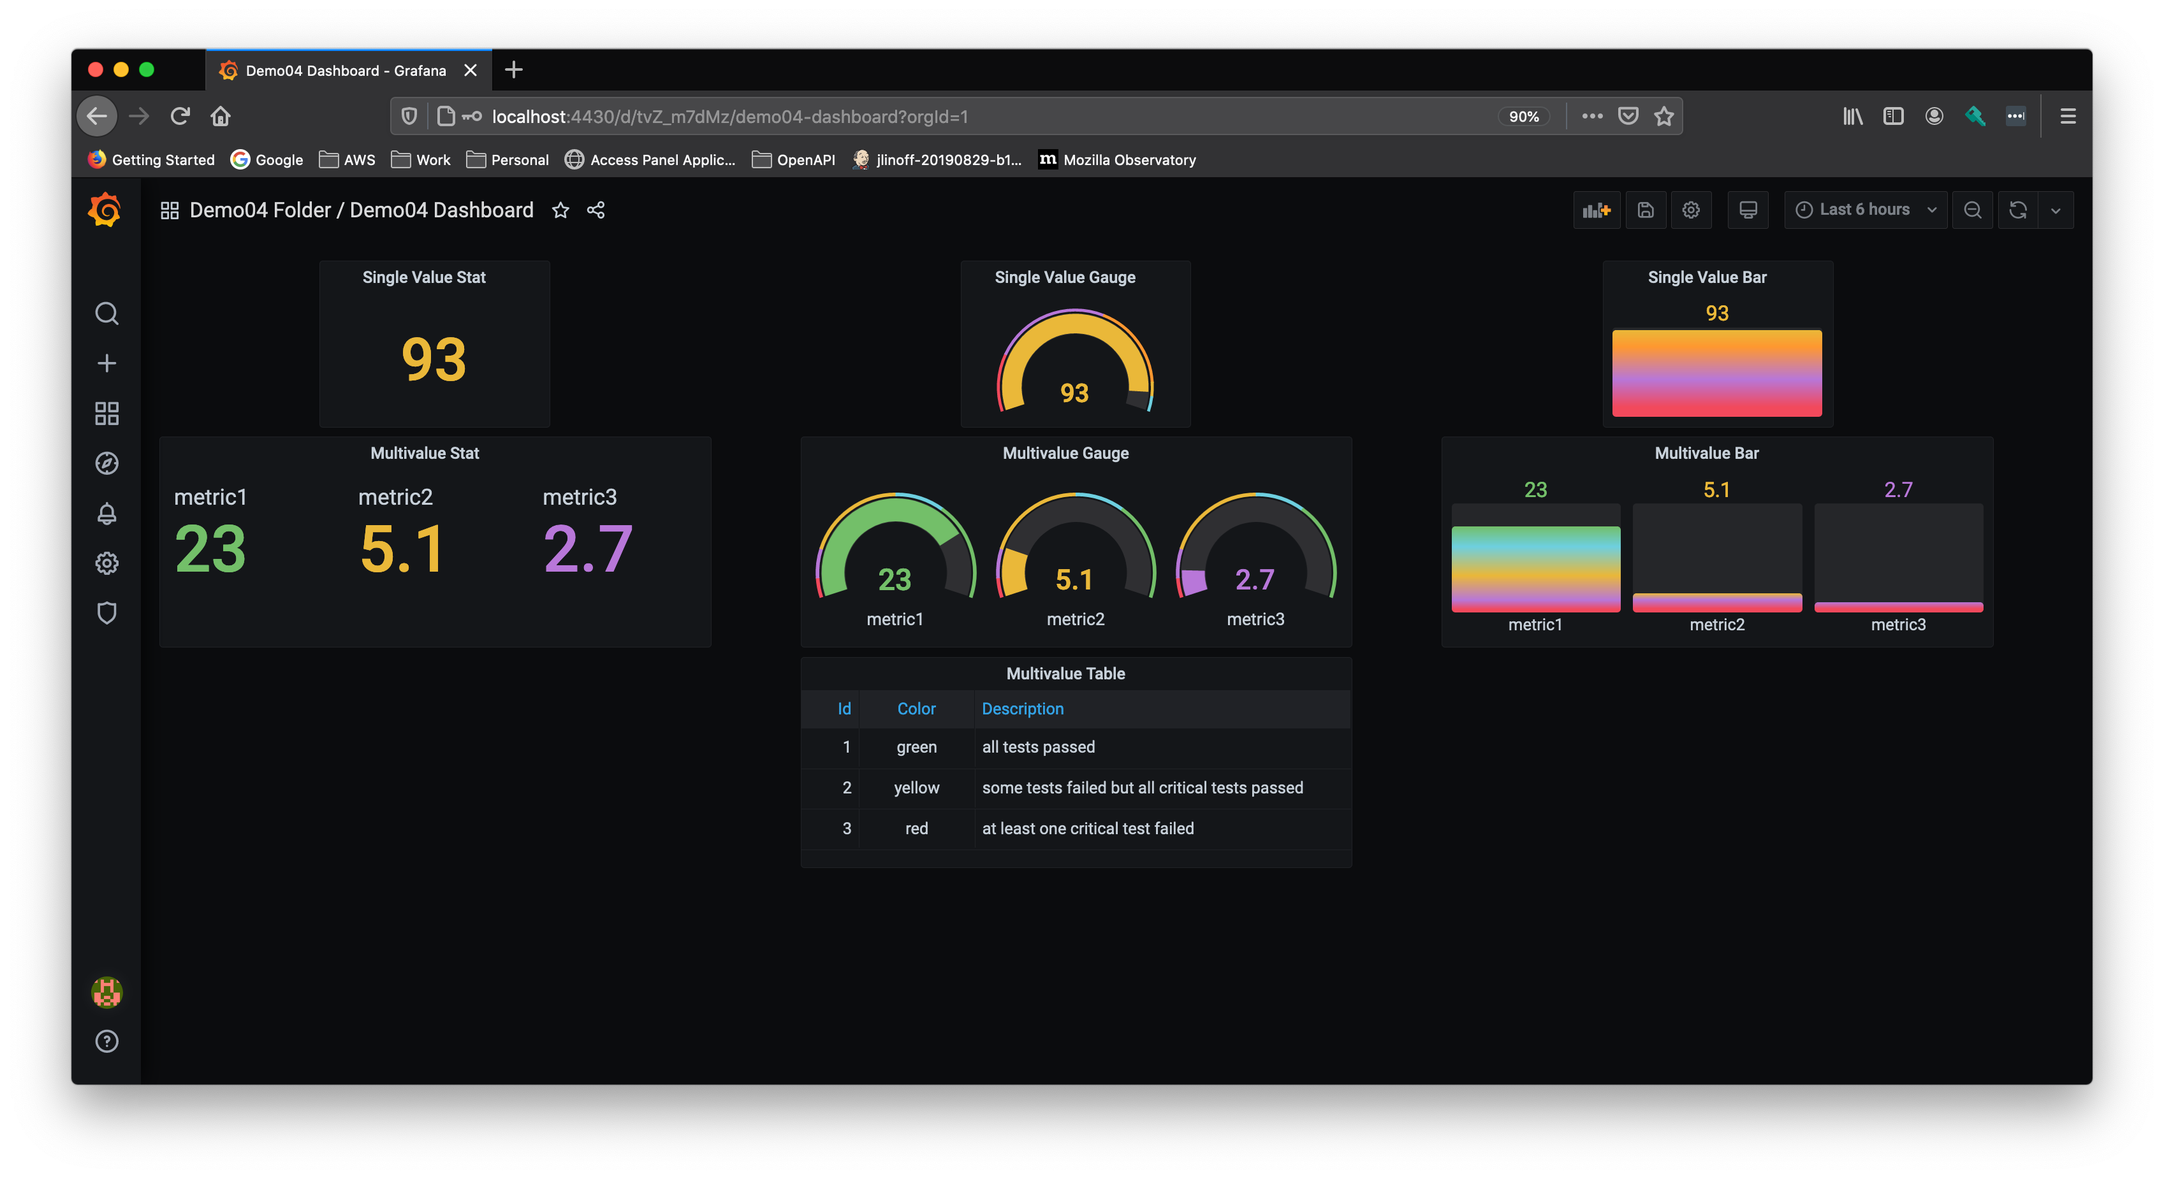
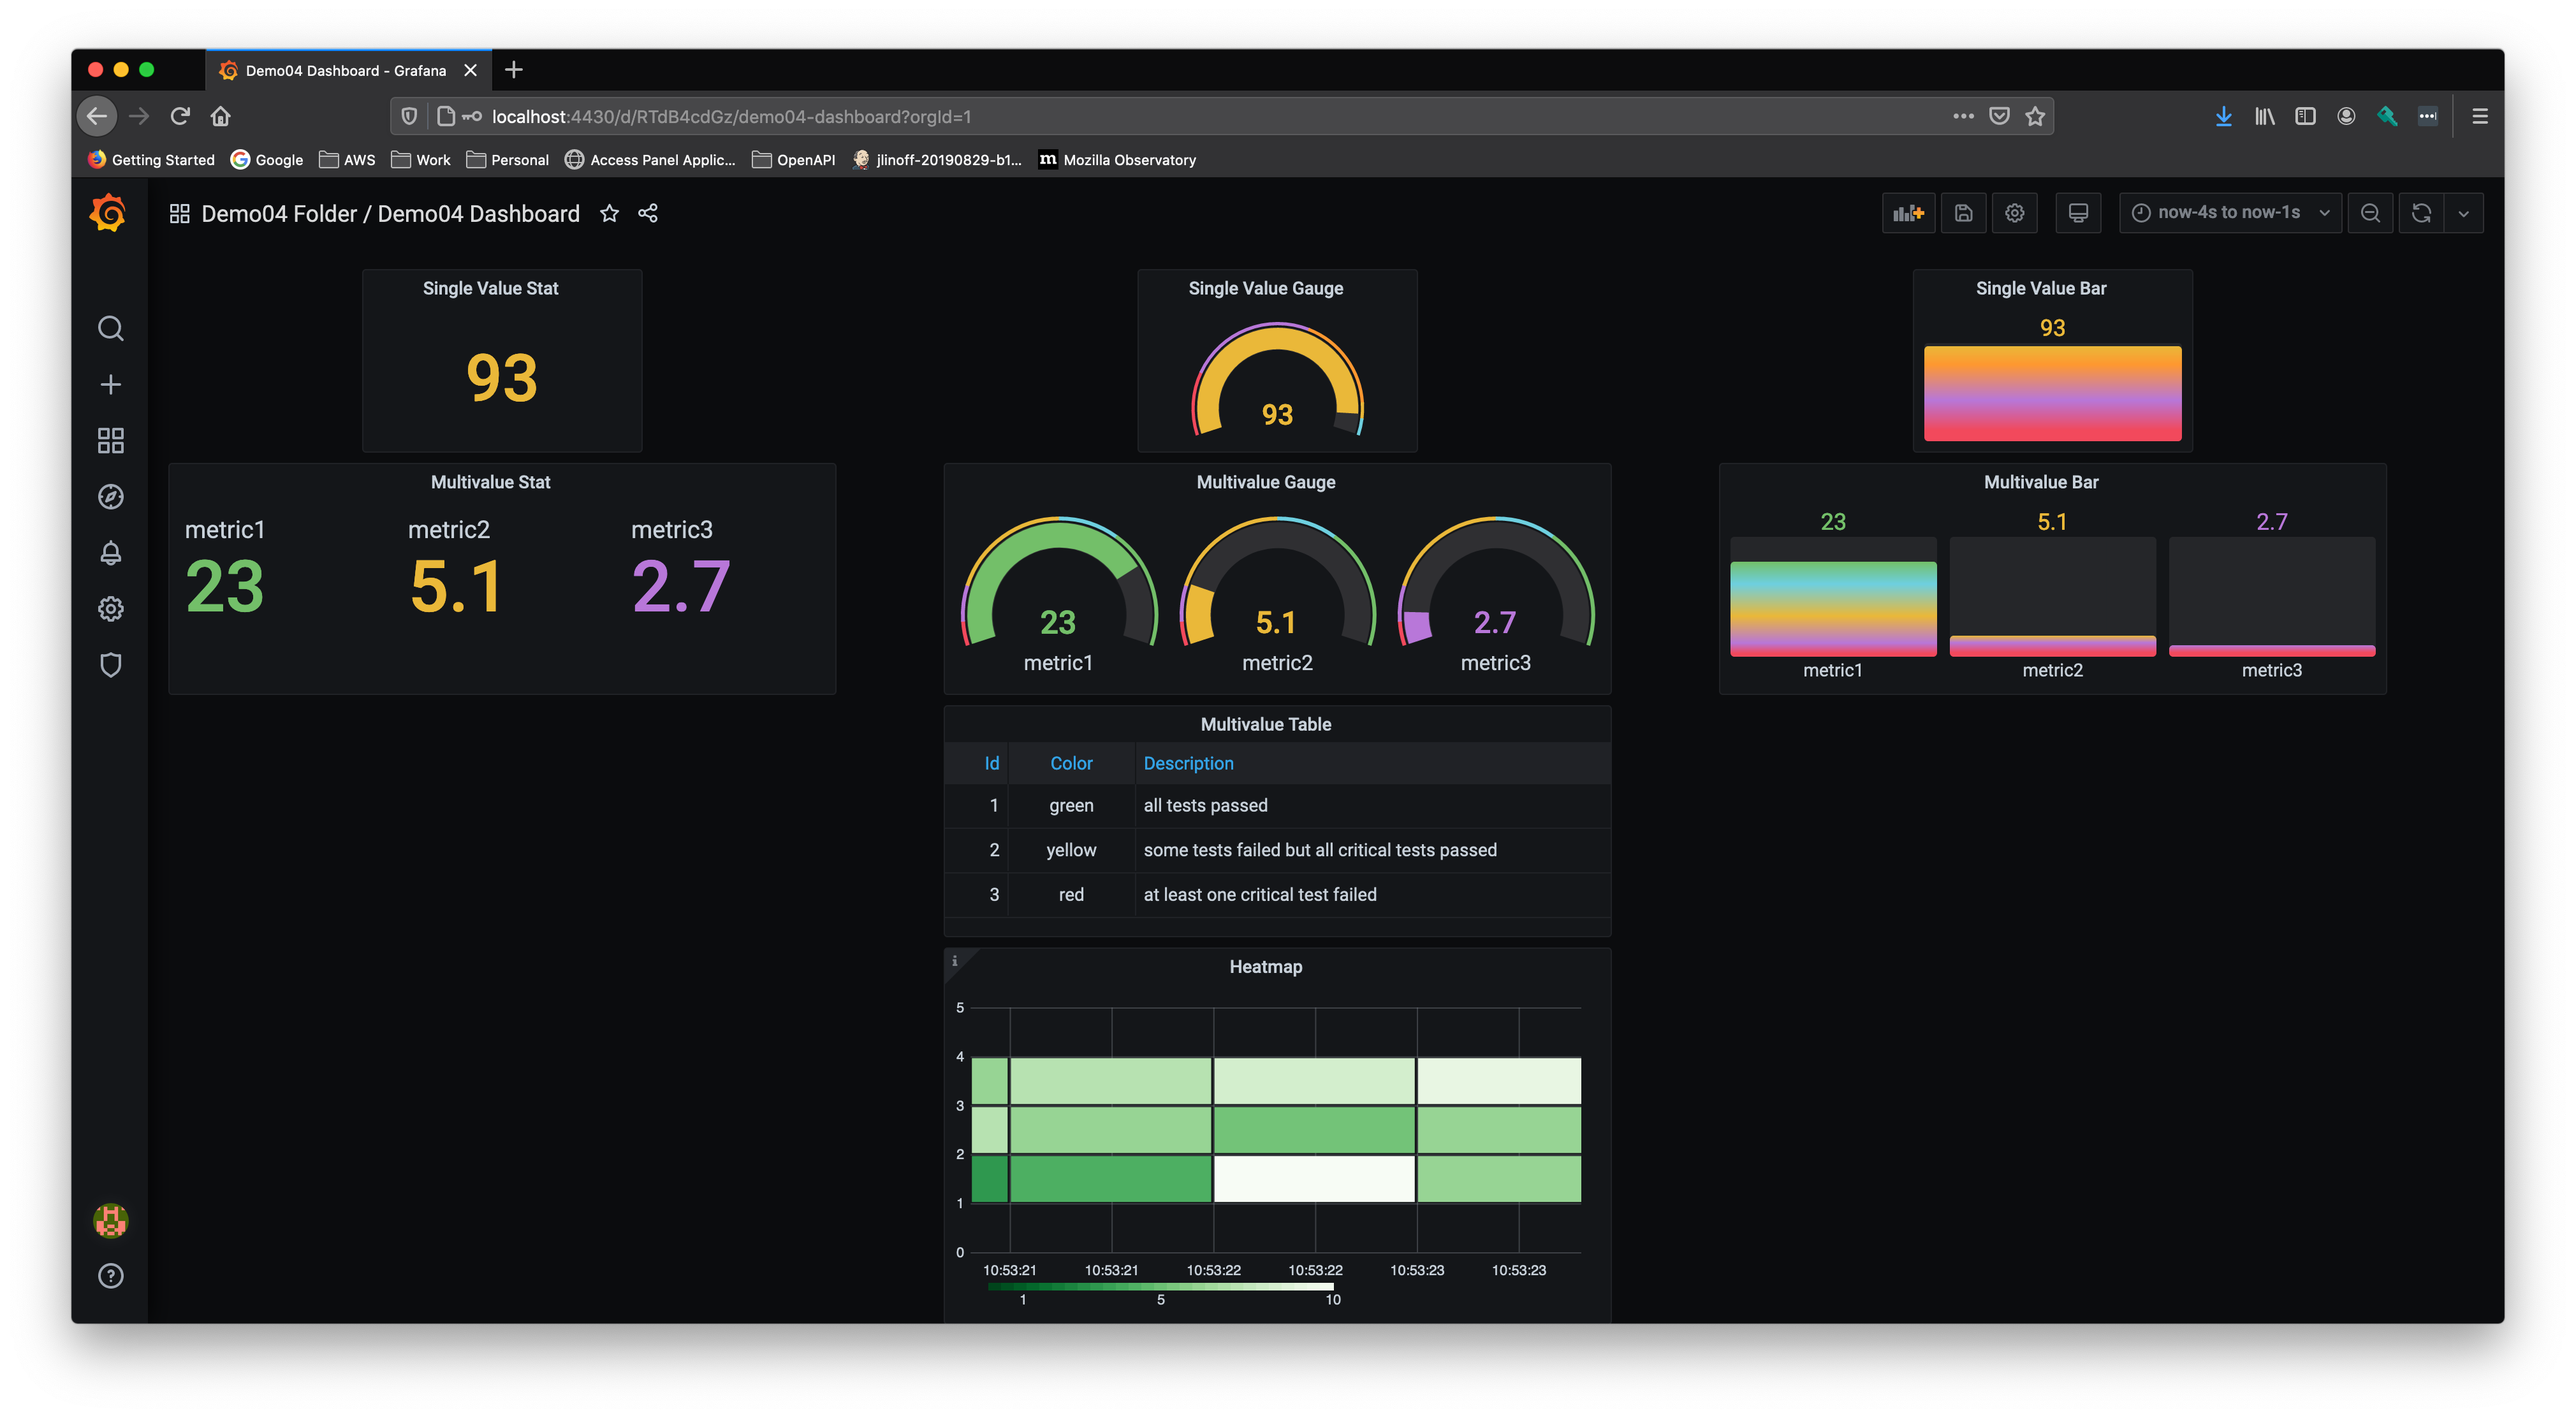
update demo04

diff --git a/samples/demo04/README.md b/samples/demo04/README.md
@@ -23,7 +23,7 @@ Here is an example of a single value for a gauge or stat panel.
 ```sql
 SELECT
   NOW() AS "time",
-  'Percent Complete' AS "metric"',
+  'Percent Complete' AS "metric",
   93.2 AS "value"
 ```
 
@@ -54,3 +54,52 @@ FROM
   AS x(id, color, meaning)
 ```
 
+Heatmaps count the number of values for a given time and display
+a color based on the count.
+
+This example shows how to manually create a very simple of data set
+where the number of entries at each time dictates the color on the
+color map.
+```sql
+-- Really simple example that shows different colors
+-- for the different times for the value.
+SELECT
+  time, metric, value
+FROM
+  (VALUES
+    (NOW(), 'metric1', 1.0),
+    (NOW(), 'metric1', 1.0),
+    (NOW(), 'metric1', 1.0),
+    (NOW(), 'metric1', 1.0),
+    (NOW(), 'metric1', 1.0),
+    (NOW(), 'metric1', 1.0),
+    (NOW(), 'metric1', 1.0),
+
+    (NOW() - INTERVAL '1 SECOND', 'metric1', 1.0),
+    (NOW() - INTERVAL '1 SECOND', 'metric1', 1.0),
+    (NOW() - INTERVAL '1 SECOND', 'metric1', 1.0),
+    (NOW() - INTERVAL '1 SECOND', 'metric1', 1.0),
+    (NOW() - INTERVAL '1 SECOND', 'metric1', 1.0),
+    (NOW() - INTERVAL '1 SECOND', 'metric1', 1.0),
+
+    (NOW() - INTERVAL '2 SECOND', 'metric1', 1.0),
+    (NOW() - INTERVAL '2 SECOND', 'metric1', 1.0),
+    (NOW() - INTERVAL '2 SECOND', 'metric1', 1.0),
+    (NOW() - INTERVAL '2 SECOND', 'metric1', 1.0),
+    (NOW() - INTERVAL '2 SECOND', 'metric1', 1.0),
+    (NOW() - INTERVAL '2 SECOND', 'metric1', 1.0),
+    (NOW() - INTERVAL '2 SECOND', 'metric1', 1.0),
+    (NOW() - INTERVAL '2 SECOND', 'metric1', 1.0),
+    (NOW() - INTERVAL '2 SECOND', 'metric1', 1.0),
+    (NOW() - INTERVAL '2 SECOND', 'metric1', 1.0),
+
+    (NOW() - INTERVAL '3 SECOND', 'metric1', 1.0),
+    (NOW() - INTERVAL '3 SECOND', 'metric1', 1.0),
+    (NOW() - INTERVAL '3 SECOND', 'metric1', 1.0),
+    (NOW() - INTERVAL '3 SECOND', 'metric1', 1.0),
+
+    (NOW() - INTERVAL '4 SECOND', 'metric1', 1.0),
+    (NOW() - INTERVAL '4 SECOND', 'metric1', 1.0),
+    (NOW() - INTERVAL '4 SECOND', 'metric1', 1.0))
+  AS x(time, metric, value)
+```
